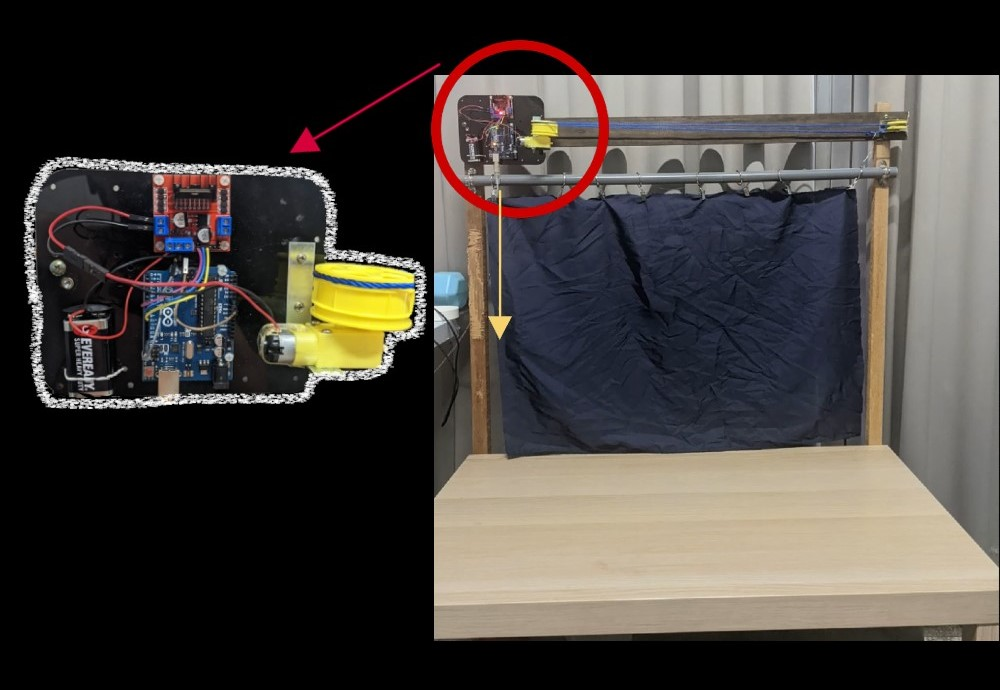
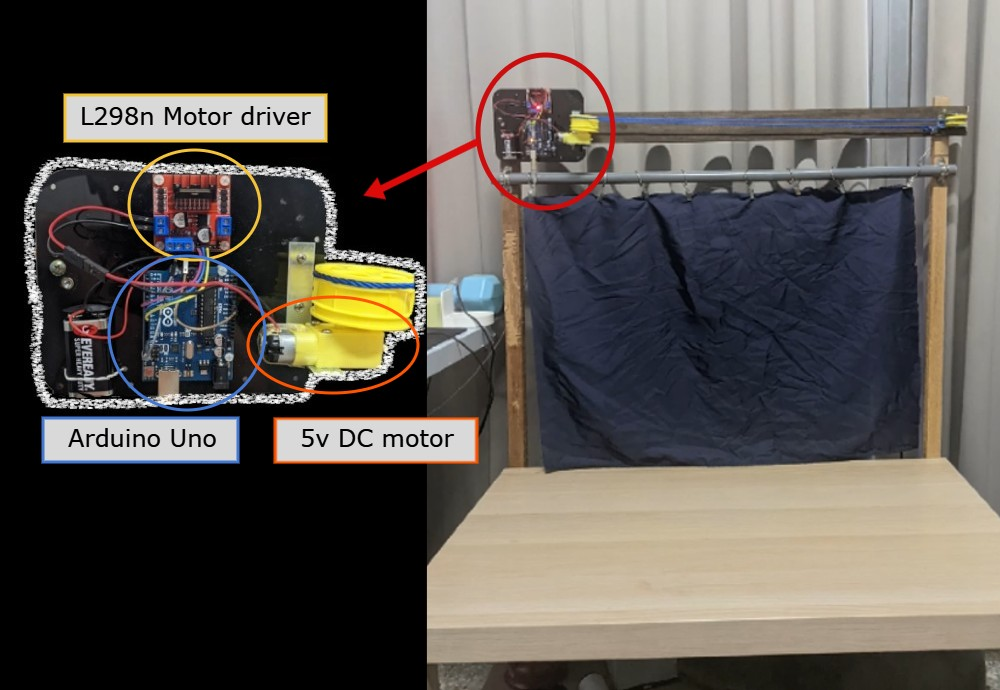
update hardware picture

diff --git a/README.md b/README.md
@@ -11,11 +11,11 @@ While I stay at home during the pandemic , there are a lot of inconvenience in m
 ## Hardware
 <img src="assets/hardware.jpg" width=500>
 
+* Arduino Uno
 * L298n Motor driver
-* Ardunio Uno
-* 5v motor 
+* Tire gear rim 
+* 5v DC motor 
 * 9v battery 
-* wheel
 
 ## Software
 
